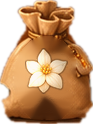
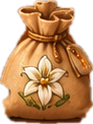
Nursery: use the user's original painted bag flowers (picture as supplied)
Claude-Session: https://claude.ai/code/session_01KbwSo6yL3mitC5MkkWGPtA

diff --git a/src/engine/assets.js b/src/engine/assets.js
@@ -353,7 +353,7 @@ Object.assign(TRADE_IMAGES, {
 });
 
 // ─── Nursery background ───────────────────────────────────────────────────────
-export const NURSERY_BG = require('../../assets/shop/nursery_v10.png');
+export const NURSERY_BG = require('../../assets/shop/nursery_v6.png');
 export const NURSERY_BARE = require('../../assets/shop/nursery_bare.png');   // the same shop with no pots, hanging pots or flowers on the shelves
 
 // ─── Inventory grid background (7 cols × 5 rows, 1226×912) ────────────────────
